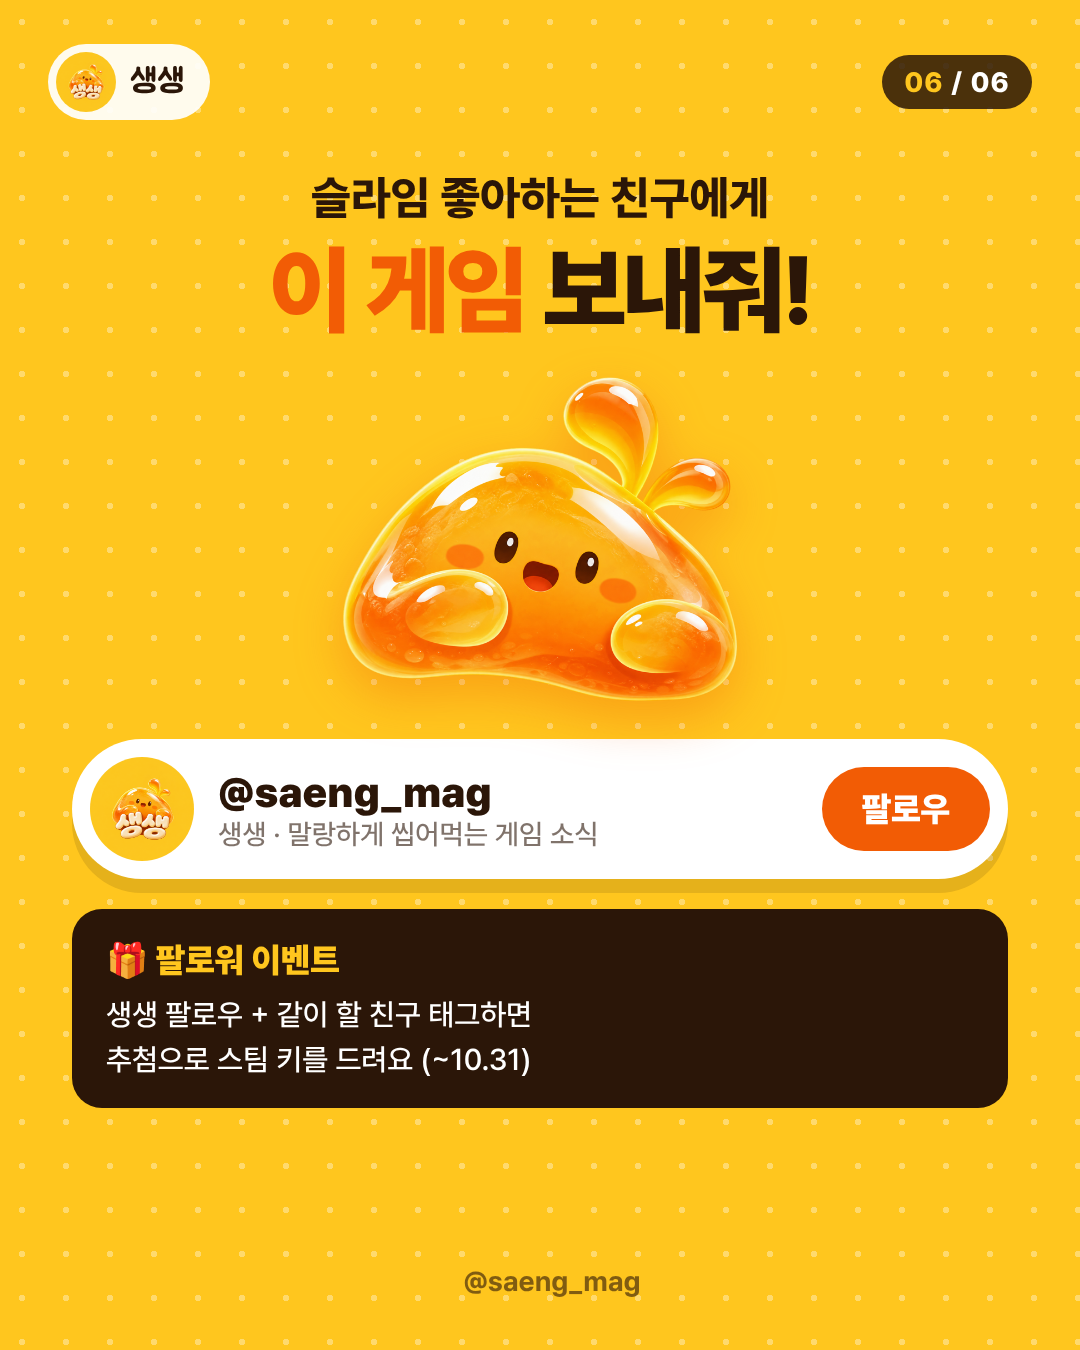
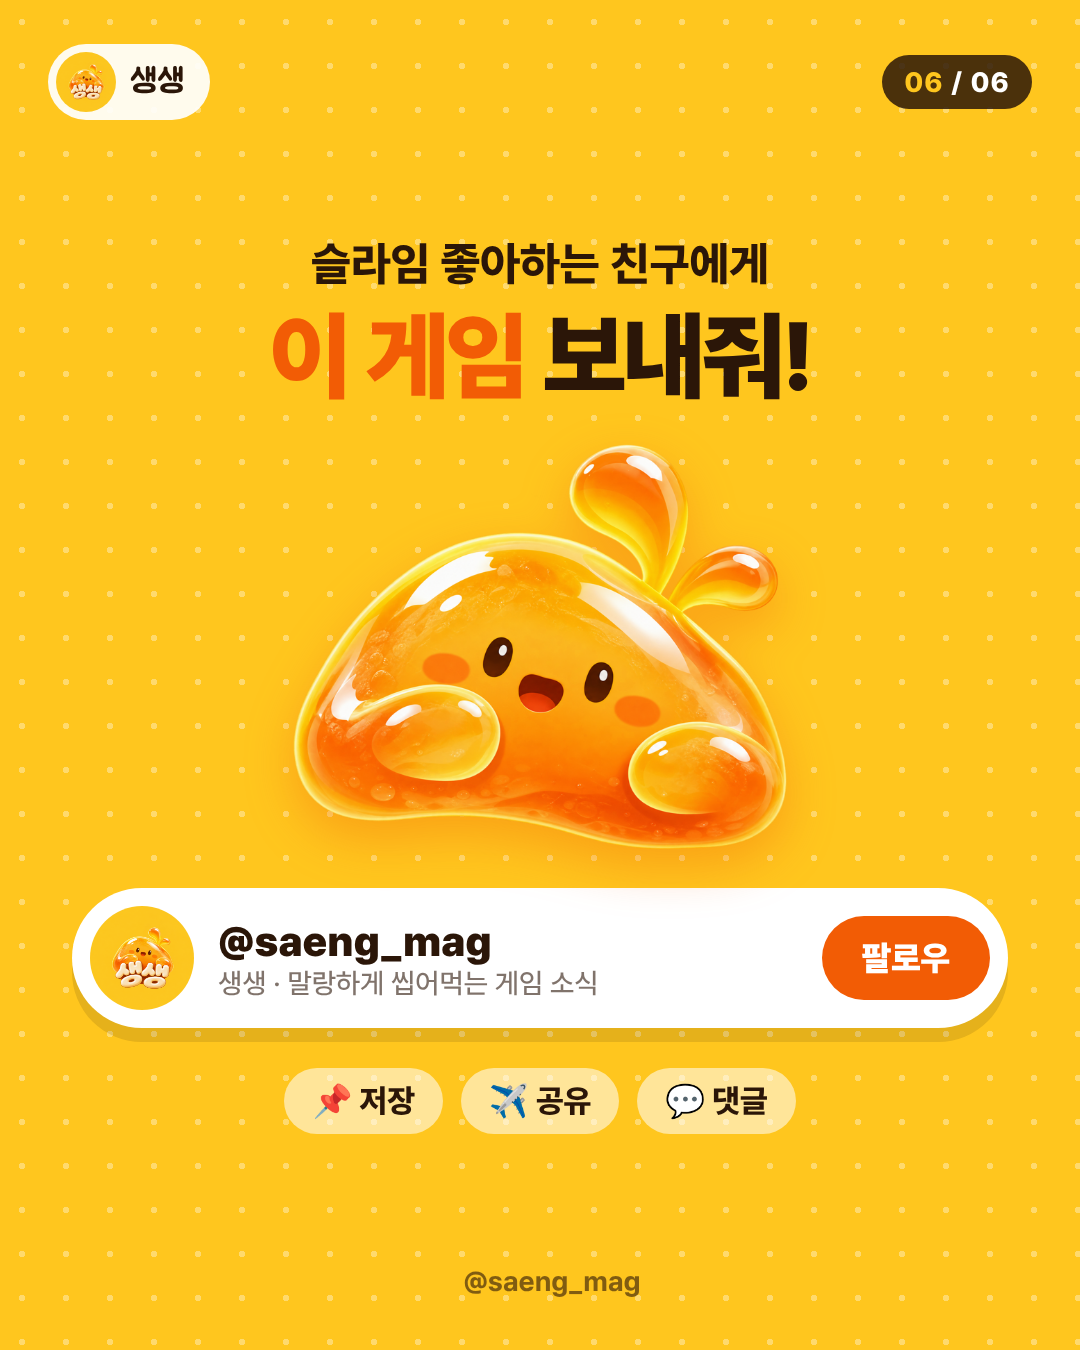
Drop follower event from sample CTA card, center its layout
Claude-Session: https://claude.ai/code/session_01L5F4kDsFF4Bmd9BtRAyQ6F

diff --git a/cardnews/template.html b/cardnews/template.html
@@ -90,12 +90,12 @@ body { background: #222; font-family: 'Pretendard', sans-serif; color: var(--cho
 .yellow .foot .next { background: var(--choco); color: var(--jelly); }
 
 /* 마지막 CTA 카드 (예시3 너겟 이벤트 + 예시4 공유 문구) */
-.cta-wrap { position: absolute; left: 72px; right: 72px; top: 170px; z-index: 4; text-align: center; }
+.cta-wrap { position: absolute; left: 72px; right: 72px; top: 140px; bottom: 120px; z-index: 4; text-align: center; display: flex; flex-direction: column; justify-content: center; }
 .cta-wrap .lead { font-weight: 800; font-size: 46px; }
 .cta-wrap .headline { color: var(--choco); text-shadow: none; font-size: 96px; margin-top: 10px; }
 .cta-wrap .headline em { color: var(--deep); }
-.hero { width: 400px; margin: 30px auto 0; display: block; filter: drop-shadow(0 18px 24px rgba(242,92,5,.35)); }
-.follow { display: flex; align-items: center; gap: 24px; background: var(--white); border-radius: 999px; padding: 18px 18px 18px 18px; margin: 34px auto 0; text-align: left; box-shadow: 0 14px 0 rgba(43,22,8,.12); }
+.hero { width: 500px; margin: 30px auto 0; display: block; filter: drop-shadow(0 18px 24px rgba(242,92,5,.35)); }
+.follow { width: 100%; display: flex; align-items: center; gap: 24px; background: var(--white); border-radius: 999px; padding: 18px 18px 18px 18px; margin: 34px auto 0; text-align: left; box-shadow: 0 14px 0 rgba(43,22,8,.12); }
 .follow img { width: 104px; height: 104px; border-radius: 50%; }
 .follow .who { flex: 1; }
 .follow .who b { display: block; font-weight: 900; font-size: 42px; }
@@ -103,6 +103,8 @@ body { background: #222; font-family: 'Pretendard', sans-serif; color: var(--cho
 .follow .btn { font-weight: 900; font-size: 34px; color: var(--white); background: var(--deep); border-radius: 999px; padding: 22px 40px; }
 .event { margin-top: 30px; background: var(--choco); color: var(--white); border-radius: 30px; padding: 26px 34px; text-align: left; font-size: 30px; line-height: 1.5; font-weight: 500; }
 .event b { color: var(--jelly); font-weight: 900; font-size: 34px; display: block; margin-bottom: 6px; }
+.acts { display: flex; justify-content: center; gap: 18px; margin-top: 40px; }
+.acts span { font-weight: 800; font-size: 32px; background: rgba(255,255,255,.55); border-radius: 999px; padding: 14px 28px; }
 .cta .foot { justify-content: center; }
 .cta .foot .handle { color: rgba(43,22,8,.6); }
 </style>
@@ -148,8 +150,7 @@ const CARDS = [
 
   { type: 'cta',
     lead: '슬라임 좋아하는 친구에게',
-    headline: '*이 게임* 보내줘!',
-    event: { title: '🎁 팔로워 이벤트', text: '생생 팔로우 + 같이 할 친구 태그하면\n추첨으로 스팀 키를 드려요 (~10.31)' } },
+    headline: '*이 게임* 보내줘!' },
 ];
 </script>
 
@@ -205,6 +206,7 @@ const R = {
     <div class="cta-wrap"><p class="lead">${esc(c.lead)}</p><h2 class="headline">${rich(c.headline)}</h2>
       <img class="hero" src="assets/mascot.png">
       <div class="follow"><img src="assets/profile.png"><div class="who"><b>${BRAND.handle}</b><span>${BRAND.name} · ${BRAND.bio}</span></div><span class="btn">팔로우</span></div>
+      <div class="acts"><span>📌 저장</span><span>✈ 공유</span><span>💬 댓글</span></div>
       ${c.event ? `<div class="event"><b>${esc(c.event.title)}</b>${rich(c.event.text)}</div>` : ''}</div>${foot(n)}`,
 };
 const CLASS = { cover: 'cover', game: 'game', point: 'point', check: 'yellow', cta: 'yellow cta' };

diff --git a/cardnews/README.md b/cardnews/README.md
@@ -24,7 +24,7 @@
 | `game` | 게임 정보: 번호, 이름, 출시일·평가·한국어, 할인가 | 게임서랍장(정보 블록), 게임큐레이션(취소선 가격) |
 | `point` | 매력 포인트 1장에 1개 | 루루코(라벨 + 2줄 제목 + 1줄 설명) |
 | `check` | "이런 사람한테 맞아요" 체크리스트 → 저장 유도 | 웹 검색 결과(저장할 가치를 주는 장) |
-| `cta` | 공유 대상 지목 + 팔로우 카드 + 이벤트 | 루루코(친구에게 보내줘), 너겟(팔로워 이벤트) |
+| `cta` | 공유 대상 지목 + 팔로우 카드 + 저장·공유·댓글 안내 (`event`를 넣으면 이벤트 상자 추가) | 루루코(친구에게 보내줘), 너겟(팔로워 이벤트) |
 
 ## 고정 브랜드 요소
 
